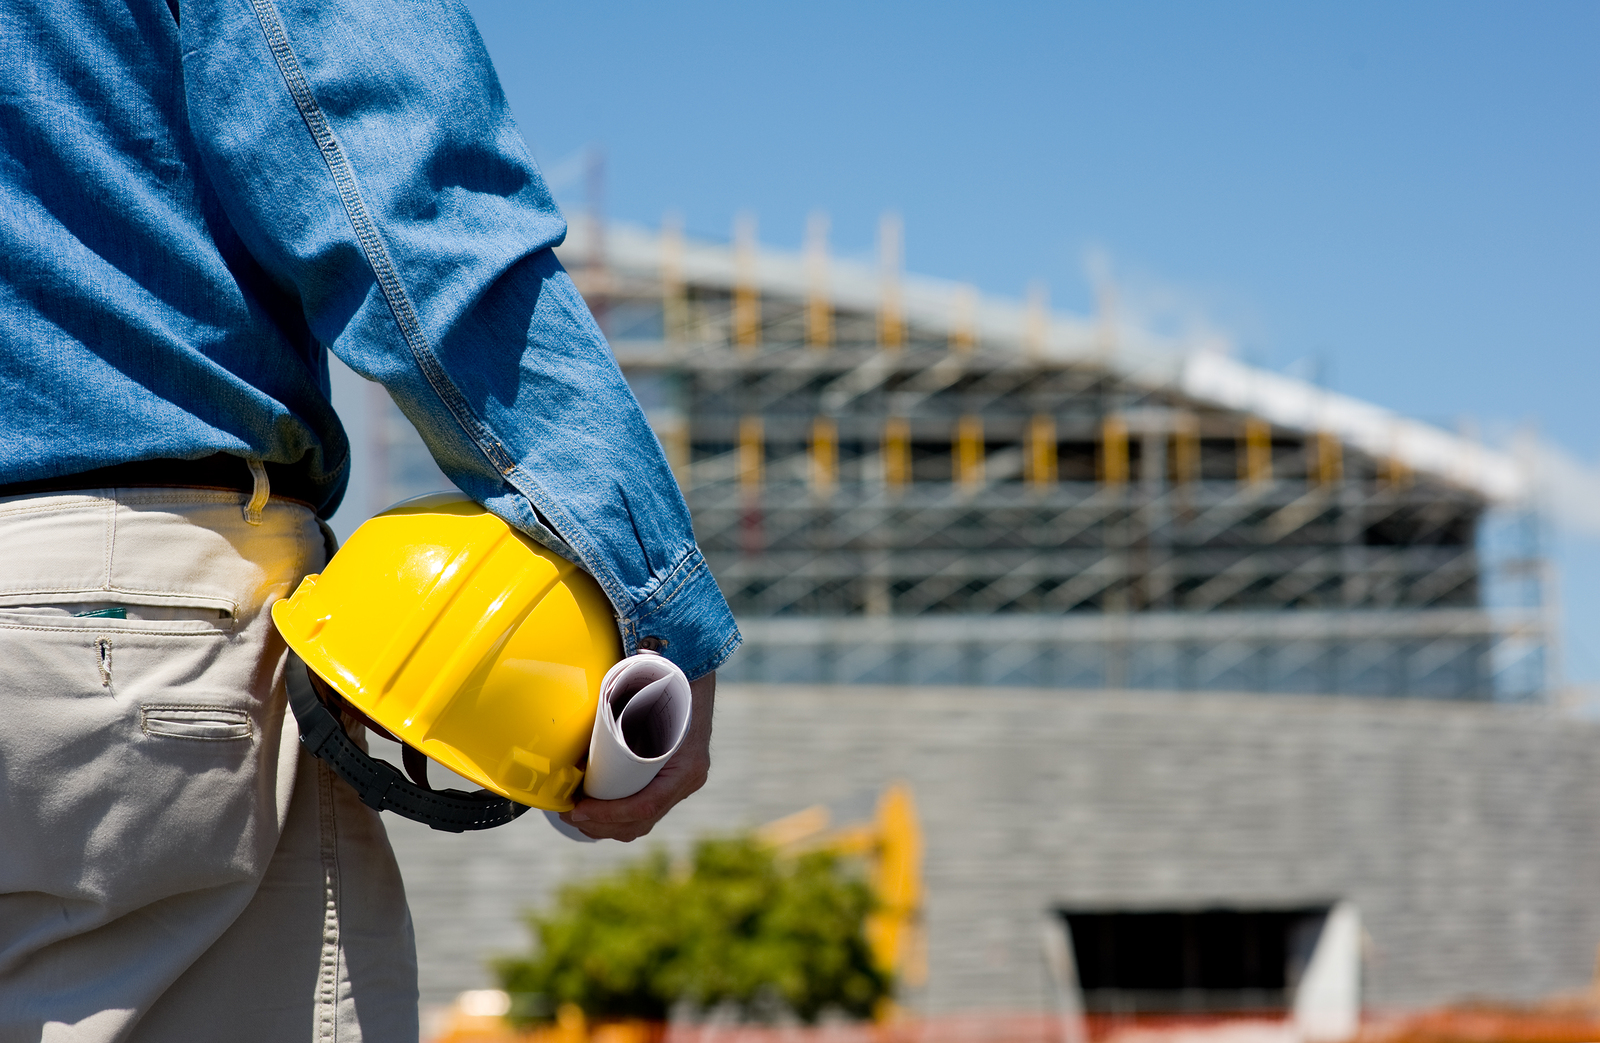
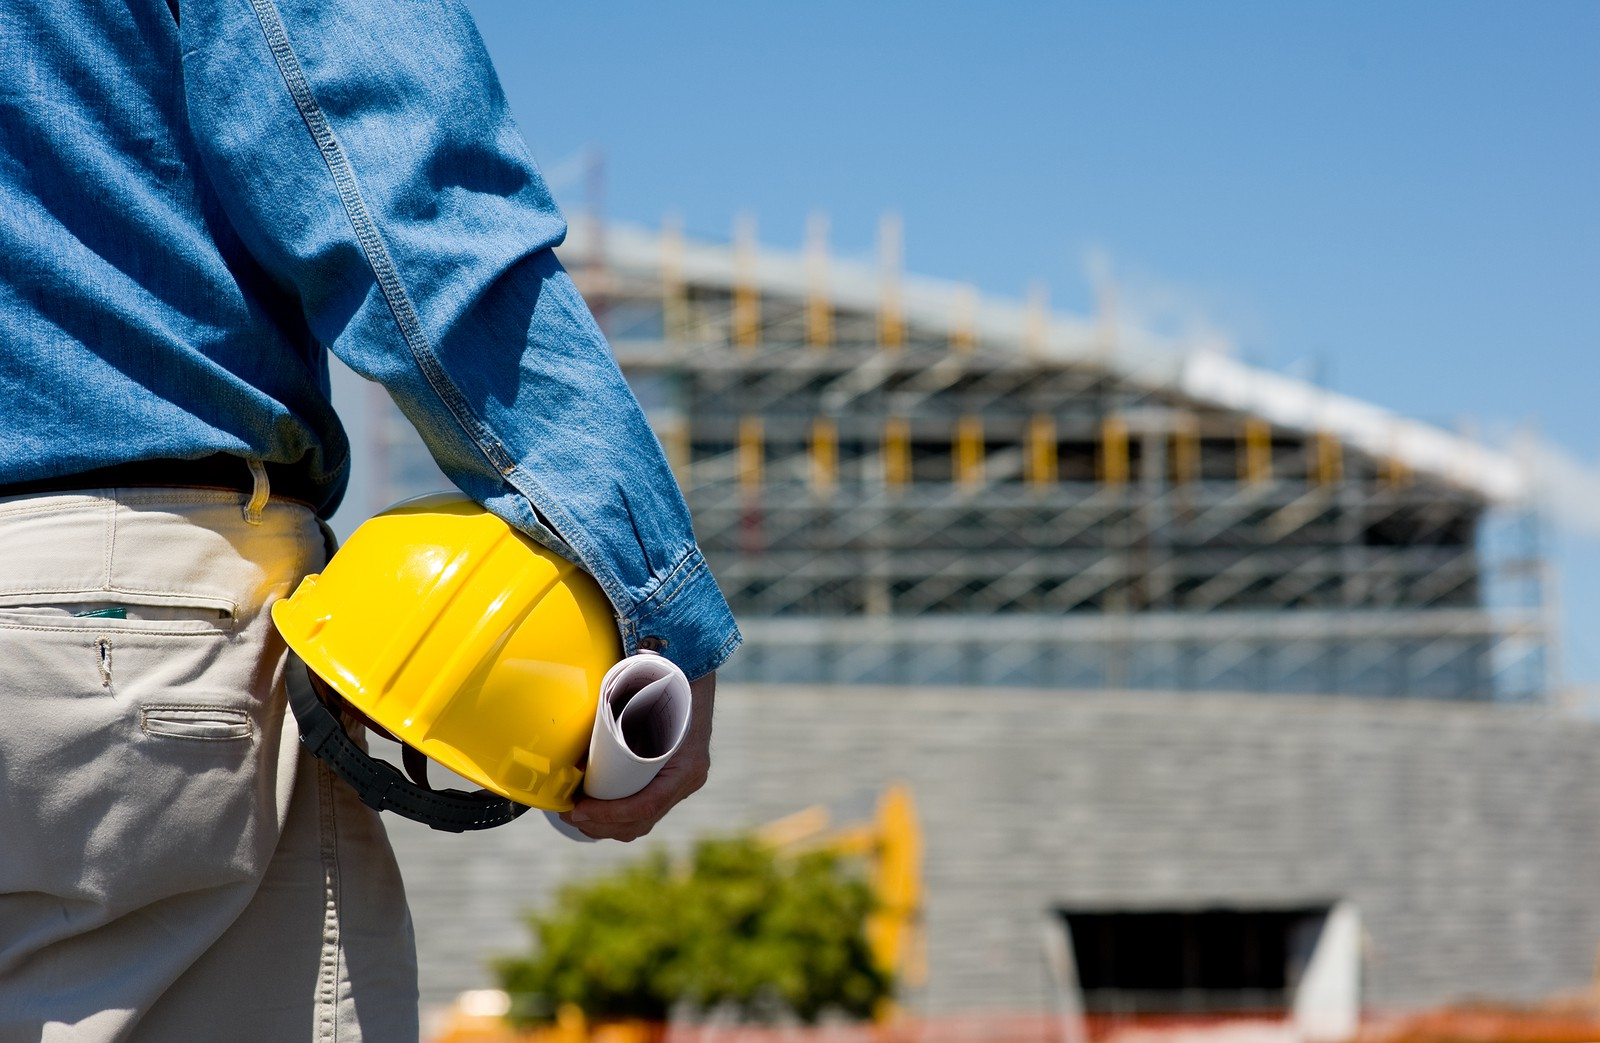
reduced image sizes

diff --git a/index.html b/index.html
@@ -36,8 +36,8 @@
 					<header>
 						<h2>M & M Construction.</h2>
 					</header>
-					<p>Welcome to <strong>our site</strong>
-						We got the best construction crew in MOCO.
+					<p>
+						<strong>We got the best construction crew in MOCO.</strong>
 					</p>
 					<footer>
 						<a href="#one" class="button style2 down">More</a>

diff --git a/assets/css/main.css b/assets/css/main.css
@@ -56,6 +56,7 @@
 		box-sizing: border-box;
 	}
 
+
 /* Basic */
 
 	@-ms-viewport {
